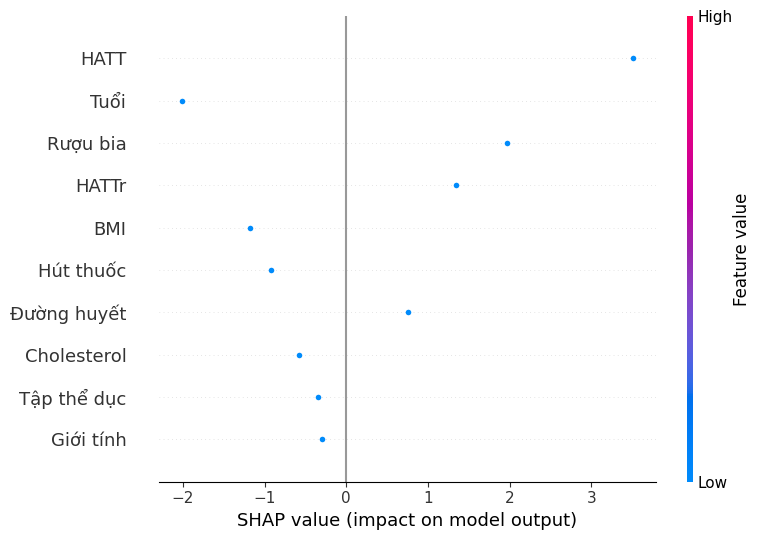
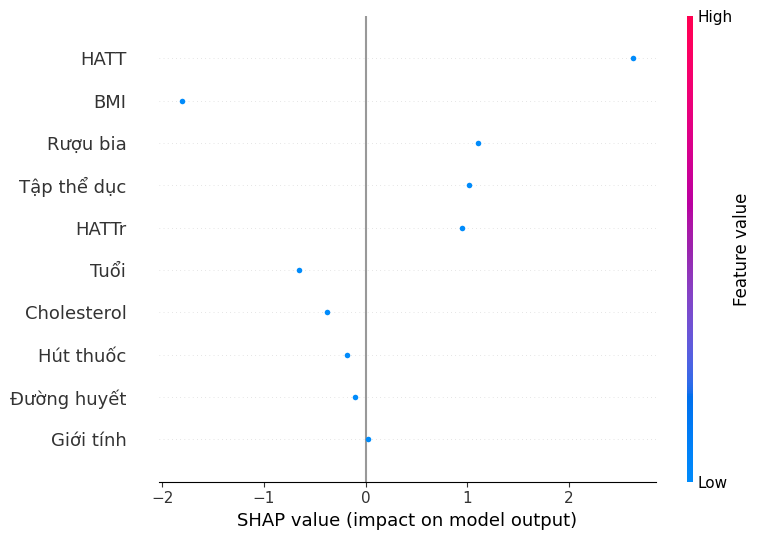
...

diff --git a/templates/diagnose.html b/templates/diagnose.html
@@ -83,12 +83,12 @@
                         <div class="col-md-4">
                             <label class="form-label fw-semibold">Cân nặng (kg)</label>
                             <input type="number" step="0.1" name="weight" id="weight" class="form-control" required
-                               placeholder="VD: 50" value="{{ request.form.get('weight','') }}">
+                                placeholder="VD: 50" value="{{ request.form.get('weight','') }}">
                         </div>
                         <div class="col-md-4">
                             <label class="form-label fw-semibold">Chiều cao (cm)</label>
                             <input type="number" step="0.1" name="height" id="height" class="form-control" required
-                               placeholder="VD: 165" value="{{ request.form.get('height','') }}">
+                                placeholder="VD: 165" value="{{ request.form.get('height','') }}">
                         </div>
                         <div class="col-md-4">
                             <label class="form-label fw-semibold">BMI</label>
@@ -121,25 +121,27 @@
                         <div class="col-md-6">
                             <label class="form-label fw-semibold">Cholesterol</label>
                             <select name="cholesterol" id="cholesterol" class="form-select">
-                                <option value="normal" {% if request.form.get('cholesterol')=='normal' %}selected{%
-                                    endif %}>Bình thường</option>
-                                <option value="above_normal" {% if request.form.get('cholesterol')=='above_normal'
-                                    %}selected{% endif %}>Cao hơn bình thường</option>
-                                <option value="high" {% if request.form.get('cholesterol')=='high' %}selected{% endif
-                                    %}>Cao</option>
+                                <option value="0" {% if request.form.get('cholesterol')=='0' %}selected{% endif %}>0 -
+                                    Bình thường</option>
+                                <option value="1" {% if request.form.get('cholesterol')=='1' %}selected{% endif %}>1 -
+                                    Cao nhẹ</option>
+                                <option value="2" {% if request.form.get('cholesterol')=='2' %}selected{% endif %}>2 -
+                                    Cao</option>
                             </select>
+
                         </div>
 
                         <div class="col-md-6">
                             <label class="form-label fw-semibold">Đường huyết</label>
                             <select name="glucose" id="glucose" class="form-select">
-                                <option value="normal" {% if request.form.get('glucose')=='normal' %}selected{% endif
-                                    %}>Bình thường</option>
-                                <option value="above_normal" {% if request.form.get('glucose')=='above_normal'
-                                    %}selected{% endif %}>Cao hơn bình thường</option>
-                                <option value="high" {% if request.form.get('glucose')=='high' %}selected{% endif %}>Cao
+                                <option value="0" {% if request.form.get('glucose')=='0' %}selected{% endif %}>0 - Bình
+                                    thường</option>
+                                <option value="1" {% if request.form.get('glucose')=='1' %}selected{% endif %}>1 - Cao
+                                    nhẹ</option>
+                                <option value="2" {% if request.form.get('glucose')=='2' %}selected{% endif %}>2 - Cao
                                 </option>
                             </select>
+
                         </div>
 
                     </div>

diff --git a/templates/base.html b/templates/base.html
@@ -145,7 +145,7 @@
               <a
                 class="nav-link {% if request.endpoint == 'history' %}active{% endif %}"
                 href="{{ url_for('history') }}"
-                >Lịch sử toàn hệ thống</a
+                >📄Lịch sử toàn hệ thống</a
               >
             </li>
             <li class="nav-item">

diff --git a/app.py b/app.py
@@ -55,7 +55,7 @@ def get_ai_advice_cached(prompt: str) -> str:
 xgb_model = None
 try:
     import xgboost as xgb
-    MODEL_PATH = "xgb_T11_Final.json"
+    MODEL_PATH = "xgb_heart30.json"
     if os.path.exists(MODEL_PATH):
         xgb_model = xgb.XGBClassifier()
         xgb_model.load_model(MODEL_PATH)
@@ -216,7 +216,7 @@ def get_patient_info(benhnhan_id):
         return jsonify({"tuoi": None, "gioitinh": None})
 
 # ==========================================
-# Chẩn đoán bệnh tim mạch + Giải thích SHAP
+# 🩺 Chẩn đoán bệnh tim mạch + Giải thích SHAP
 # ==========================================
 @app.route('/diagnose', methods=['GET', 'POST'])
 def diagnose():
@@ -226,16 +226,14 @@ def diagnose():
     conn = get_connection()
     cur = conn.cursor()
     benhnhans = []
-    # Danh sách bệnh nhân (chỉ dành cho bác sĩ)
     if session.get('role') == 'doctor':
-        
         cur.execute("SELECT ID, HoTen FROM NguoiDung WHERE Role='patient'")
         benhnhans = [
             {"ID": r.ID, "MaBN": f"BN{r.ID:03}", "HoTen": r.HoTen}
             for r in cur.fetchall()
         ]
 
-    # Biến khởi tạo
+    # --- Biến khởi tạo ---
     result = None
     ai_advice = None
     file_result = None
@@ -244,15 +242,18 @@ def diagnose():
     shap_file = None
     threshold = float(request.form.get('threshold', 0.5))
 
-    chol_map = {'normal': 1, 'above_normal': 2, 'high': 3}
-    gluc_map = {'normal': 1, 'above_normal': 2, 'high': 3}
-
-    # ======== XỬ LÝ NHẬP LIỆU THỦ CÔNG ========
+    # ======================
+    # 🔹 XỬ LÝ NHẬP LIỆU THỦ CÔNG
+    # ======================
     if request.method == 'POST' and 'predict_form' in request.form:
         try:
-            benhnhan_id = int(request.form.get('benhnhan_id')) if session.get('role') == 'doctor' else session['user_id']
+            benhnhan_id = (
+                int(request.form.get('benhnhan_id'))
+                if session.get('role') == 'doctor'
+                else session['user_id']
+            )
 
-            # Lấy dữ liệu nhập tay
+            # --- Lấy dữ liệu nhập tay ---
             age = int(request.form.get('age'))
             gender_raw = request.form.get('gender')
             gender = 1 if gender_raw == 'Nam' else 0
@@ -261,27 +262,25 @@ def diagnose():
             bmi = round(weight / ((height / 100) ** 2), 2)
             systolic = float(request.form.get('systolic'))
             diastolic = float(request.form.get('diastolic'))
-            chol = request.form.get('cholesterol')
-            glucose = request.form.get('glucose')
+            chol = int(request.form.get('cholesterol'))
+            glucose = int(request.form.get('glucose'))
             smoking = 1 if request.form.get('smoking') == 'yes' else 0
             alcohol = 1 if request.form.get('alcohol') == 'yes' else 0
             exercise = 1 if request.form.get('exercise') == 'yes' else 0
 
-            # ===== Dự đoán bằng mô hình =====
+            # --- Dự đoán bằng mô hình ---
             if xgb_model:
                 X = np.array([[age, gender, systolic, diastolic,
-                               chol_map.get(chol, 1), gluc_map.get(glucose, 1),
-                               smoking, alcohol, exercise, bmi]])
+                               chol, glucose, smoking, alcohol, exercise, bmi]],
+                             dtype=float)
                 prob = float(xgb_model.predict_proba(X)[0, 1])
                 risk_percent = round(prob * 100, 1)
                 risk_level = 'high' if prob >= threshold else 'low'
             else:
                 score = 0
                 if systolic > 140 or diastolic > 90: score += 1
-                if chol == 'above_normal': score += 1
-                elif chol == 'high': score += 2
-                if glucose == 'above_normal': score += 1
-                elif glucose == 'high': score += 2
+                score += chol
+                score += glucose
                 if bmi > 30: score += 1
                 if smoking: score += 1
                 if alcohol: score += 1
@@ -292,7 +291,7 @@ def diagnose():
             nguy_co_text = "Nguy cơ cao" if risk_level == 'high' else "Nguy cơ thấp"
             result = f"{nguy_co_text} - {risk_percent}%"
 
-            # ===== Sinh lời khuyên AI =====
+            # --- Sinh lời khuyên AI ---
             prompt = f"""
             Bạn là bác sĩ tim mạch.
             Dữ liệu: Tuổi {age}, Giới tính {gender_raw}, BMI {bmi},
@@ -303,18 +302,19 @@ def diagnose():
             Hãy đưa ra lời khuyên ngắn gọn, dễ hiểu cho bệnh nhân.
             """
             ai_advice_raw = get_ai_advice_cached(prompt)
-            ai_advice = highlight_advice(ai_advice_raw)  # 🟢 Thêm dòng này để tô đậm ý chính
+            ai_advice = highlight_advice(ai_advice_raw)
 
-            # ===== Tạo biểu đồ SHAP =====
+            # --- Sinh biểu đồ SHAP ---
             if xgb_model:
                 try:
                     explainer = shap.TreeExplainer(xgb_model)
                     shap_values = explainer.shap_values(X)
                     shap.summary_plot(
                         shap_values, X,
-                        feature_names=['Tuổi', 'Giới tính', 'HATT', 'HATTr',
-                                       'Cholesterol', 'Đường huyết', 'Hút thuốc',
-                                       'Rượu bia', 'Tập thể dục', 'BMI'],
+                        feature_names=[
+                            'Tuổi', 'Giới tính', 'HATT', 'HATTr', 'Cholesterol',
+                            'Đường huyết', 'Hút thuốc', 'Rượu bia', 'Tập thể dục', 'BMI'
+                        ],
                         show=False
                     )
                     shap_dir = os.path.join(app.root_path, 'static', 'images')
@@ -326,7 +326,10 @@ def diagnose():
                 except Exception as e:
                     print(f"⚠ Lỗi khi tạo biểu đồ SHAP: {e}")
 
-            # ===== Lưu kết quả vào CSDL =====
+            # --- Lưu kết quả vào CSDL ---
+            chol_label = {0: "Bình thường", 1: "Cao nhẹ", 2: "Cao"}
+            gluc_label = {0: "Bình thường", 1: "Cao nhẹ", 2: "Cao"}
+
             bacsi_id = session['user_id'] if session.get('role') == 'doctor' else None
             cur.execute("""
                 INSERT INTO ChanDoan
@@ -335,14 +338,16 @@ def diagnose():
                 NguyCo, LoiKhuyen, NgayChanDoan)
                 VALUES (?, ?, ?, ?, ?, ?, ?, ?, ?, ?, ?, ?, ?, ?, GETDATE())
             """, (benhnhan_id, bacsi_id, age, gender_raw, bmi, systolic, diastolic,
-                chol, glucose, smoking, alcohol, exercise,
-                nguy_co_text, ai_advice))# Lưu bản gốc không tô đậm
+                  chol_label.get(chol), gluc_label.get(glucose),
+                  smoking, alcohol, exercise, nguy_co_text, ai_advice))
             conn.commit()
 
         except Exception as e:
             flash(f"Lỗi nhập liệu: {e}", "danger")
 
-        # ======== UPLOAD FILE (CHỈ CHO BÁC SĨ) ========
+    # ======================
+    # 🔹 XỬ LÝ FILE EXCEL
+    # ======================
     if request.method == 'POST' and 'data_file' in request.files:
         try:
             file = request.files['data_file']
@@ -350,17 +355,14 @@ def diagnose():
                 flash("⚠ Vui lòng chọn file Excel trước khi tải lên.", "warning")
                 return redirect(url_for('diagnose'))
 
-            # ✅ Chỉ chấp nhận Excel
             filename = file.filename.lower()
             if not filename.endswith(('.xls', '.xlsx')):
                 flash("❌ Chỉ hỗ trợ định dạng Excel (.xls, .xlsx)", "danger")
                 return redirect(url_for('diagnose'))
 
-            # ✅ Đọc dữ liệu
             df = pd.read_excel(file)
             df.columns = [c.strip().lower() for c in df.columns]
 
-            # ✅ Kiểm tra cột cần có
             required_cols = ['age', 'gender', 'ap_hi', 'ap_lo', 'cholesterol',
                              'gluc', 'smoke', 'alco', 'active', 'weight', 'height']
             missing = [c for c in required_cols if c not in df.columns]
@@ -368,28 +370,26 @@ def diagnose():
                 flash(f"⚠ File thiếu các cột: {', '.join(missing)}", "danger")
                 return redirect(url_for('diagnose'))
 
-            # ✅ Tính BMI
             df['bmi'] = (df['weight'] / ((df['height'] / 100) ** 2)).round(2)
 
             results = []
             for _, row in df.iterrows():
-                age = row['age']
+                age = int(row['age'])
                 gender_raw = row['gender']
                 gender = 1 if str(gender_raw).strip().lower() in ['nam', 'male', '1'] else 0
-                systolic = row['ap_hi']
-                diastolic = row['ap_lo']
-                chol = str(row['cholesterol']).lower()
-                gluc = str(row['gluc']).lower()
-                smoking = 1 if str(row['smoke']).lower() in ['yes', '1', 'có'] else 0
-                alcohol = 1 if str(row['alco']).lower() in ['yes', '1', 'có'] else 0
-                exercise = 1 if str(row['active']).lower() in ['yes', '1', 'có'] else 0
-                bmi = row['bmi']
+                systolic = float(row['ap_hi'])
+                diastolic = float(row['ap_lo'])
+                chol = int(row['cholesterol'])
+                gluc = int(row['gluc'])
+                smoking = int(row['smoke'])
+                alcohol = int(row['alco'])
+                exercise = int(row['active'])
+                bmi = float(row['bmi'])
 
-                # Dự đoán bằng mô hình
                 if xgb_model:
                     X = np.array([[age, gender, systolic, diastolic,
-                                   chol_map.get(chol, 1), gluc_map.get(gluc, 1),
-                                   smoking, alcohol, exercise, bmi]])
+                                   chol, gluc, smoking, alcohol, exercise, bmi]],
+                                 dtype=float)
                     prob = float(xgb_model.predict_proba(X)[0, 1])
                 else:
                     prob = 0.5
@@ -411,7 +411,6 @@ def diagnose():
                     "Xác suất (%)": risk_percent
                 })
 
-            # ✅ Hiển thị kết quả bảng
             file_result = pd.DataFrame(results).to_html(
                 index=False,
                 classes="table table-hover table-striped text-center align-middle small shadow-sm rounded-3"
@@ -422,7 +421,6 @@ def diagnose():
         except Exception as e:
             flash(f"❌ Lỗi khi xử lý file Excel: {e}", "danger")
 
-
     conn.close()
     return render_template(
         'diagnose.html',
@@ -431,10 +429,11 @@ def diagnose():
         risk_percent=risk_percent,
         risk_level=risk_level,
         threshold=threshold,
-        ai_advice=ai_advice,  
+        ai_advice=ai_advice,
         file_result=file_result,
         shap_file=shap_file
     )
+
 
 # ==========================================
 # 🧠 Hàm tô đậm lời khuyên AI (2 màu tối giản, chuyên nghiệp)
